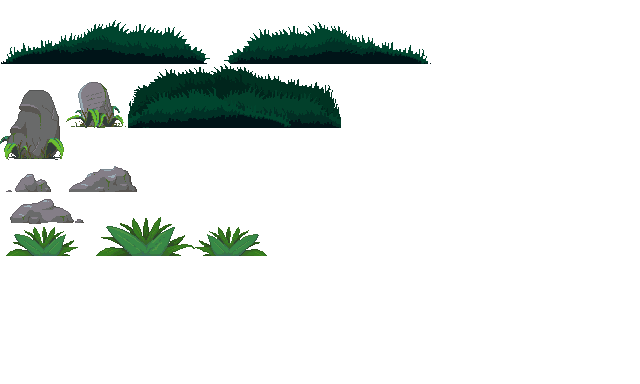
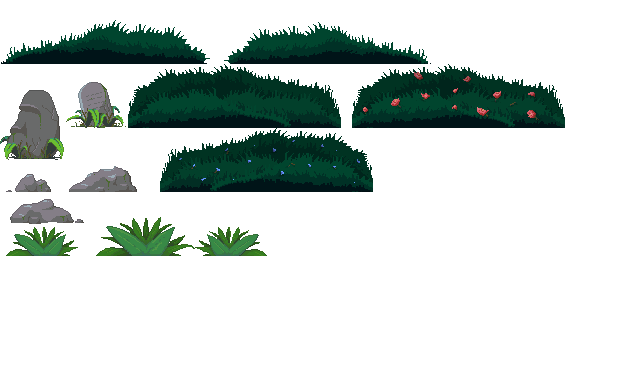
fix receiving entity updates on a client not yet fully connected fix render order of round summary information update assets

Changed region(s): [[0.5312, 0.1562, 0.9062, 0.3438], [0.25, 0.3438, 0.5938, 0.5]]

diff --git a/did/src/GameUI.cpp b/did/src/GameUI.cpp
@@ -350,7 +350,7 @@ void GameState::loadUI()
     entity.getComponent<xy::Transform>().setScale(0.5f, 0.5f);
     auto tBounds = entity.addComponent<xy::Sprite>(m_miniMap.getTexture()).getTextureBounds();
     entity.getComponent<xy::Transform>().setOrigin(0.f, tBounds.height / 2.f);
-    entity.addComponent<xy::Drawable>().setDepth(-1);
+    entity.addComponent<xy::Drawable>().setDepth(-201); //gotta be behind summary texture
     entity.addComponent<xy::CommandTarget>().ID = UI::CommandID::MiniMap;
     entity.addComponent<MiniMapData>().targetPosition = entity.getComponent<xy::Transform>().getPosition();
     entity.addComponent<xy::Callback>().function = 
@@ -405,7 +405,7 @@ void GameState::loadRoundEnd()
     auto parentEntity = m_uiScene.createEntity();
     parentEntity.addComponent<xy::Transform>();
     parentEntity.addComponent<xy::Sprite>(m_textureResource.get("assets/images/summary_window.png"));
-    parentEntity.addComponent<xy::Drawable>();
+    parentEntity.addComponent<xy::Drawable>().setDepth(-200);
     //auto bounds = parentEntity.getComponent<xy::Sprite>().getTextureBounds();
     parentEntity.getComponent<xy::Transform>().setPosition(UI::RoundScreenOffPosition);
     parentEntity.addComponent<xy::CommandTarget>().ID = UI::CommandID::RoundEndMenu;

diff --git a/did/src/GameState.cpp b/did/src/GameState.cpp
@@ -1496,6 +1496,13 @@ void GameState::updateCarriable(const CarriableState& state)
 void GameState::updateInventory(InventoryState state)
 {
     auto localPlayer = m_inputParser.getPlayerEntity();
+
+    //these might arrive before we finished joining
+    if (!localPlayer.isValid())
+    {
+        return;
+    }
+
     if (state.parentID == localPlayer.getComponent<Actor>().serverID)
     {
         //this is us, update hud

diff --git a/did/src/MenuUILobby.cpp b/did/src/MenuUILobby.cpp
@@ -566,6 +566,7 @@ void MenuState::buildLobby(sf::Font& font)
     //bounds.height -= 24.f;
     entity.getComponent<xy::Drawable>().setCroppingArea(bounds);
     entity.addComponent<xy::CommandTarget>().ID = Menu::CommandID::ChatOutText;
+    parentEntity.getComponent<xy::Transform>().addChild(entity.getComponent<xy::Transform>());
 
     //host icon
     entity = m_uiScene.createEntity();
